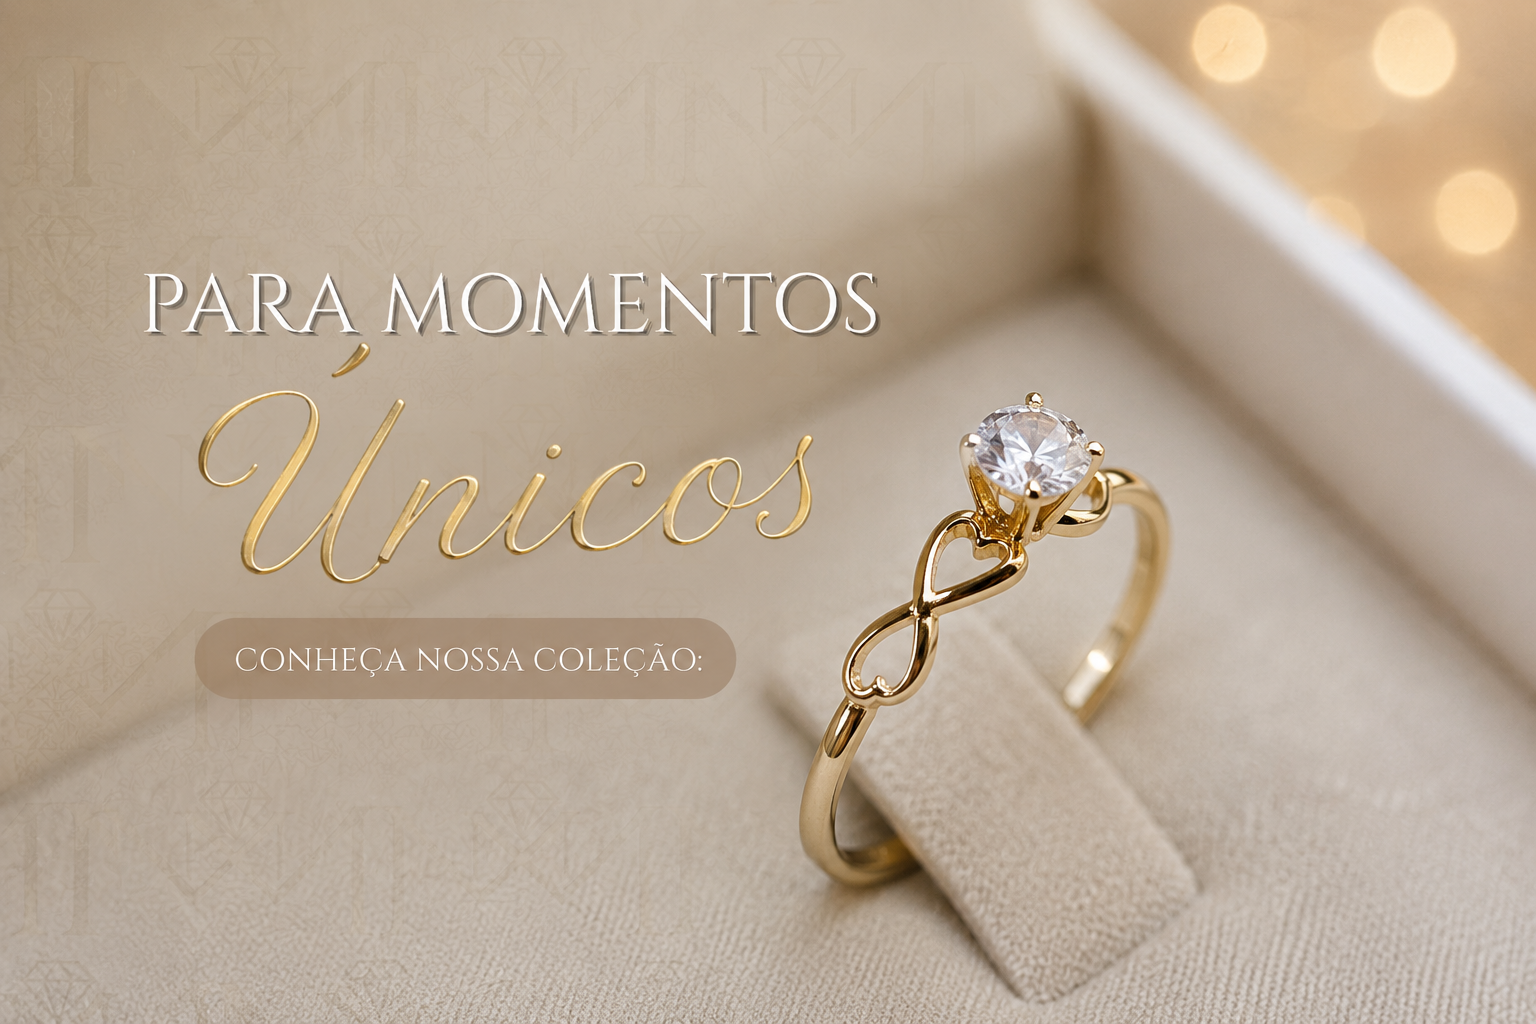
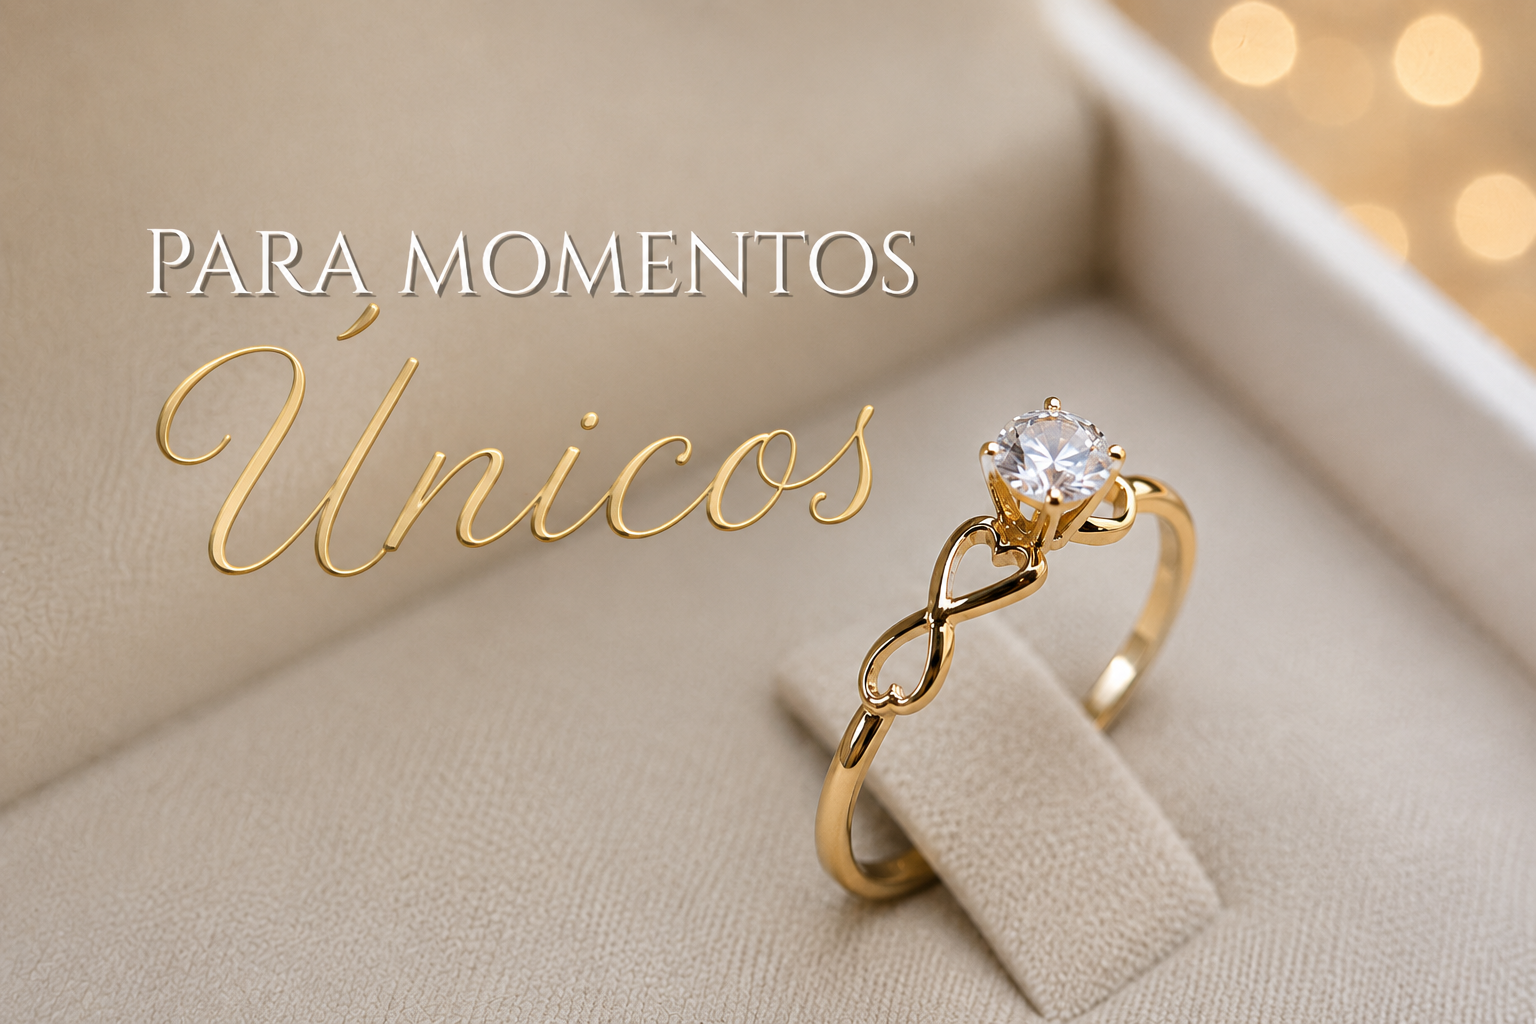
Substitui imagem hero pela nova (sem pílula) e reposiciona botão no canto inferior esquerdo

diff --git a/css/style.css b/css/style.css
@@ -295,33 +295,33 @@ ul { list-style: none; }
 
 .hero-colecao-btn {
   position: absolute;
-  left: 14%;
-  top: 74%;
-  background: rgba(155, 122, 93, 0.9);
+  left: 5%;
+  bottom: 12%;
+  background: rgba(155, 122, 93, 0.88);
   color: #fff;
   font-family: 'Cormorant Garamond', serif;
-  font-size: clamp(14px, 1.5vw, 20px);
+  font-size: clamp(11px, 1.1vw, 16px);
   letter-spacing: 0.2em;
   text-transform: uppercase;
   text-decoration: none;
-  padding: 22px 70px;
+  padding: 16px 48px;
   border-radius: 50px;
-  border: 1.5px solid rgba(255,255,255,0.5);
+  border: 1.5px solid rgba(255,255,255,0.55);
   cursor: pointer;
   display: inline-block;
   transition: background 0.25s, border-color 0.25s;
   white-space: nowrap;
 }
 .hero-colecao-btn:hover {
-  background: rgba(155, 122, 93, 1);
+  background: rgba(140, 108, 78, 1);
   border-color: rgba(255,255,255,0.9);
 }
 @media (max-width: 768px) {
   .hero-colecao-btn {
     left: 4%;
-    top: 68%;
-    font-size: 11px;
-    padding: 14px 28px;
+    bottom: 8%;
+    font-size: 10px;
+    padding: 12px 28px;
   }
 }
 
